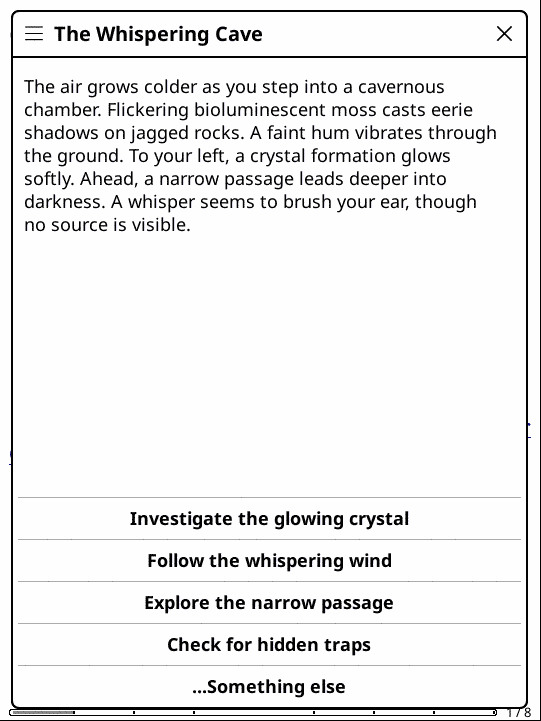
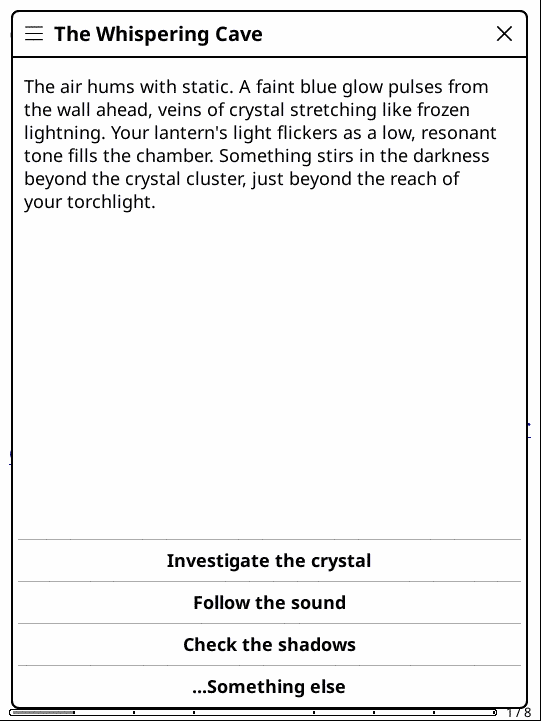
Keep the scene on screen during free actions and AI requests
"...Something else" used to close the scene before opening the input
dialog, so the dialog (and the frozen wait for the model) showed
whatever document was open in KOReader underneath.

- The scene now stays visible under the "What do you do?" dialog;
  Cancel just closes the dialog
- While the blocking AI request runs, a "The dungeon master is
  thinking..." message is painted over the scene
- The scene is only replaced once the reply arrives; on failure the
  error is shown and the player stays on the current scene
- Tests: UIManager stub records closed widgets; 4 new tests (all fail
  on the previous code)
- Refresh README screenshots

diff --git a/tests/test_play_screen.py b/tests/test_play_screen.py
@@ -195,3 +195,101 @@ def test_send_ai_action_failure_shows_error_and_stays_on_current_scene(env):
     # Falls back to re-rendering the authored scene -- ai_scene must stay nil.
     assert PlayScreen["ai_scene"] is None
     assert PlayScreen["scene_id"] == "start_scene"
+
+
+# -- "...Something else": the free-action dialog ----------------------------
+
+def _contains(env, lua_list, widget):
+    # Compare inside Lua: lupa hands out a fresh Python wrapper per access,
+    # so Python identity can't tell whether two wrappers are the same table.
+    contains = env.lua.eval(
+        "function(list, w) for i = 1, #list do if list[i] == w then return true end end return false end")
+    return contains(lua_list, widget)
+
+
+def _something_else_button(viewer):
+    rows = viewer["buttons_table"]
+    last_row = rows[len(rows)]
+    assert last_row[1]["text"] == "...Something else"
+    return last_row[1]
+
+
+def _last_shown(UIManager):
+    shown = UIManager["_shown"]
+    return shown[len(shown)]
+
+
+def test_something_else_keeps_the_scene_under_the_dialog(env):
+    PlayScreen = _fresh(env)
+    UIManager = env.require("ui/uimanager")
+    PlayScreen.render(PlayScreen)
+    viewer = PlayScreen["viewer"]
+
+    _something_else_button(viewer)["callback"]()
+
+    assert not _contains(env, UIManager["_closed"], viewer)
+    assert _last_shown(UIManager)["title"] == "What do you do?"
+
+
+def test_cancel_closes_only_the_dialog_without_redrawing_the_scene(env):
+    PlayScreen = _fresh(env)
+    UIManager = env.require("ui/uimanager")
+    PlayScreen.render(PlayScreen)
+    viewer = PlayScreen["viewer"]
+    _something_else_button(viewer)["callback"]()
+    dialog = _last_shown(UIManager)
+    shown_before = len(UIManager["_shown"])
+
+    dialog["buttons"][1][1]["callback"]()  # Cancel
+
+    assert _contains(env, UIManager["_closed"], dialog)
+    assert not _contains(env, UIManager["_closed"], viewer)
+    assert len(UIManager["_shown"]) == shown_before
+    assert env.lua.eval("function(a, b) return a == b end")(PlayScreen["viewer"], viewer)
+
+
+def test_go_keeps_the_scene_and_shows_thinking_until_the_reply_replaces_it(env):
+    PlayScreen = _fresh(env)
+    UIManager = env.require("ui/uimanager")
+    AIProvider = env.require("inkrpg_ai_provider")
+    PlayScreen.render(PlayScreen)
+    viewer = PlayScreen["viewer"]
+    _something_else_button(viewer)["callback"]()
+    dialog = _last_shown(UIManager)
+    dialog["_test_input"] = "look around"
+
+    seen_during_request = {}
+
+    def fake_request(messages):
+        seen_during_request["top"] = _last_shown(UIManager)
+        seen_during_request["scene_closed"] = _contains(env, UIManager["_closed"], viewer)
+        return (True, env.lua.eval('{ narration = "A door creaks open.", '
+                                   'choices = { { label = "Enter" } } }'))
+
+    AIProvider["requestStructured"] = fake_request
+
+    dialog["buttons"][1][2]["callback"]()  # Go
+
+    assert not seen_during_request["scene_closed"]
+    assert _contains(env, UIManager["_closed"], viewer)
+    thinking = seen_during_request["top"]
+    assert "thinking" in thinking["text"]
+    assert _contains(env, UIManager["_closed"], thinking)
+    assert PlayScreen["ai_scene"]["narration"] == "A door creaks open."
+
+
+def test_ai_failure_leaves_the_current_scene_on_screen(env):
+    PlayScreen = _fresh(env)
+    UIManager = env.require("ui/uimanager")
+    AIProvider = env.require("inkrpg_ai_provider")
+    AIProvider["requestStructured"] = lambda messages: (False, "connection refused")
+    PlayScreen.render(PlayScreen)
+    viewer = PlayScreen["viewer"]
+    shown_before = len(UIManager["_shown"])
+
+    PlayScreen.sendAiAction(PlayScreen, "look around")
+
+    assert not _contains(env, UIManager["_closed"], viewer)
+    # thinking message + error message, and no second copy of the scene
+    assert len(UIManager["_shown"]) == shown_before + 2
+    assert "connection refused" in _last_shown(UIManager)["text"]

diff --git a/README.md b/README.md
@@ -34,6 +34,7 @@ E-ink is a great surface for interactive fiction: short paragraphs, no notificat
 
 - A playable, hand-authored demo adventure: **The Whispering Cave**.
 - Save and resume per game, including the middle of an AI-improvised scene.
+- The scene stays on screen while you type and while the AI is thinking; a failed request shows an error and leaves you where you were.
 - In-app AI settings screen with:
   - provider presets: OpenAI, local **Ollama**, DeepSeek, Groq, OpenRouter, Custom;
   - model, masked API key and a **Test connection** button.
@@ -96,7 +97,7 @@ Every scene that isn't an ending gets a **"…Something else"** button automatic
 
 ## Development
 
-**Unit tests (no KOReader needed).** 63 tests run the real plugin Lua inside Python through [lupa](https://github.com/scoder/lupa), with KOReader's UI modules stubbed. They cover:
+**Unit tests (no KOReader needed).** 67 tests run the real plugin Lua inside Python through [lupa](https://github.com/scoder/lupa), with KOReader's UI modules stubbed. They cover:
 - dice;
 - the game loader;
 - save state and settings;
